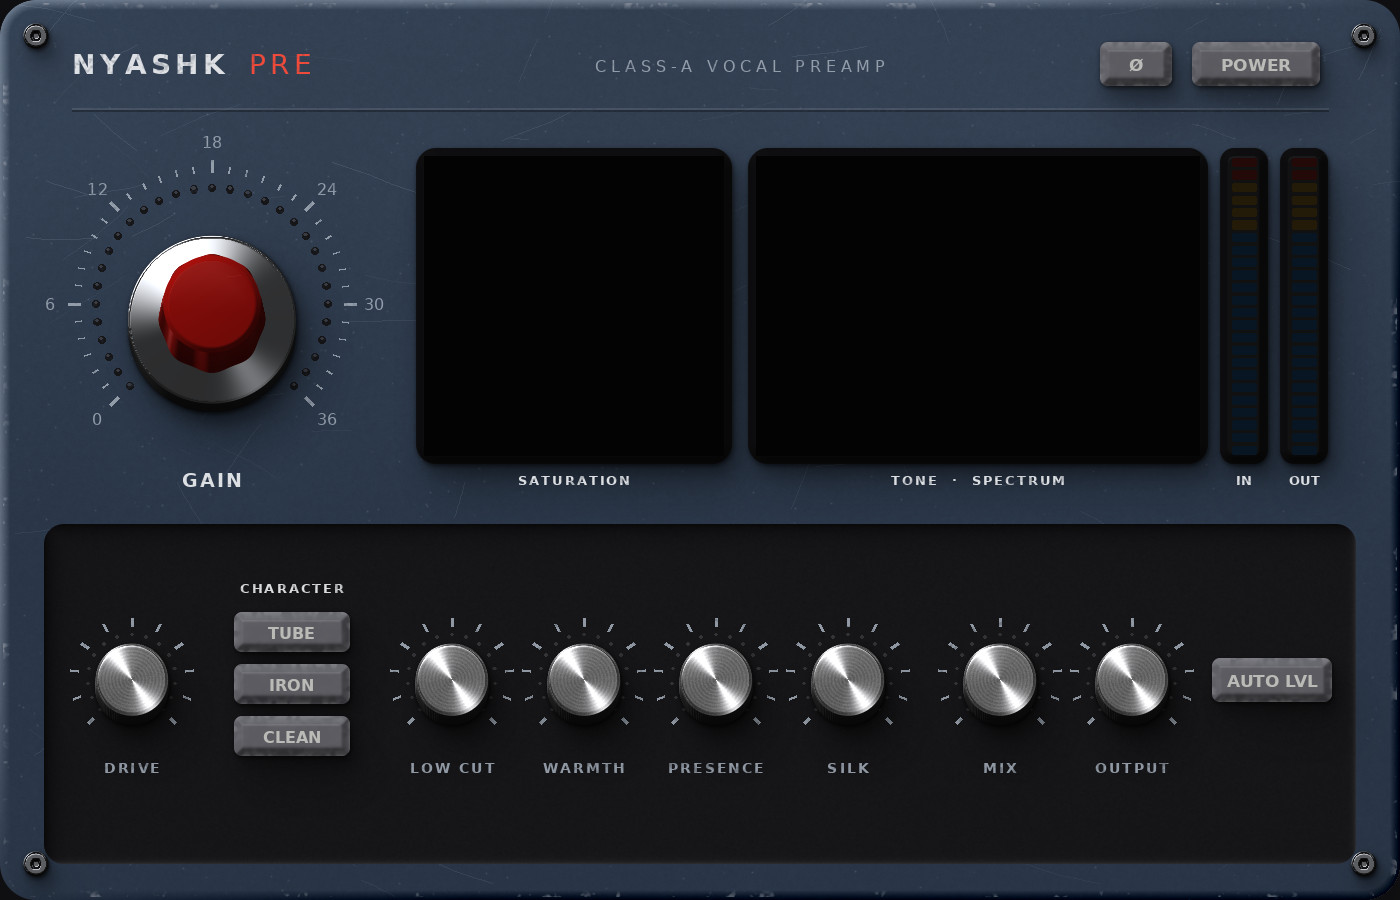
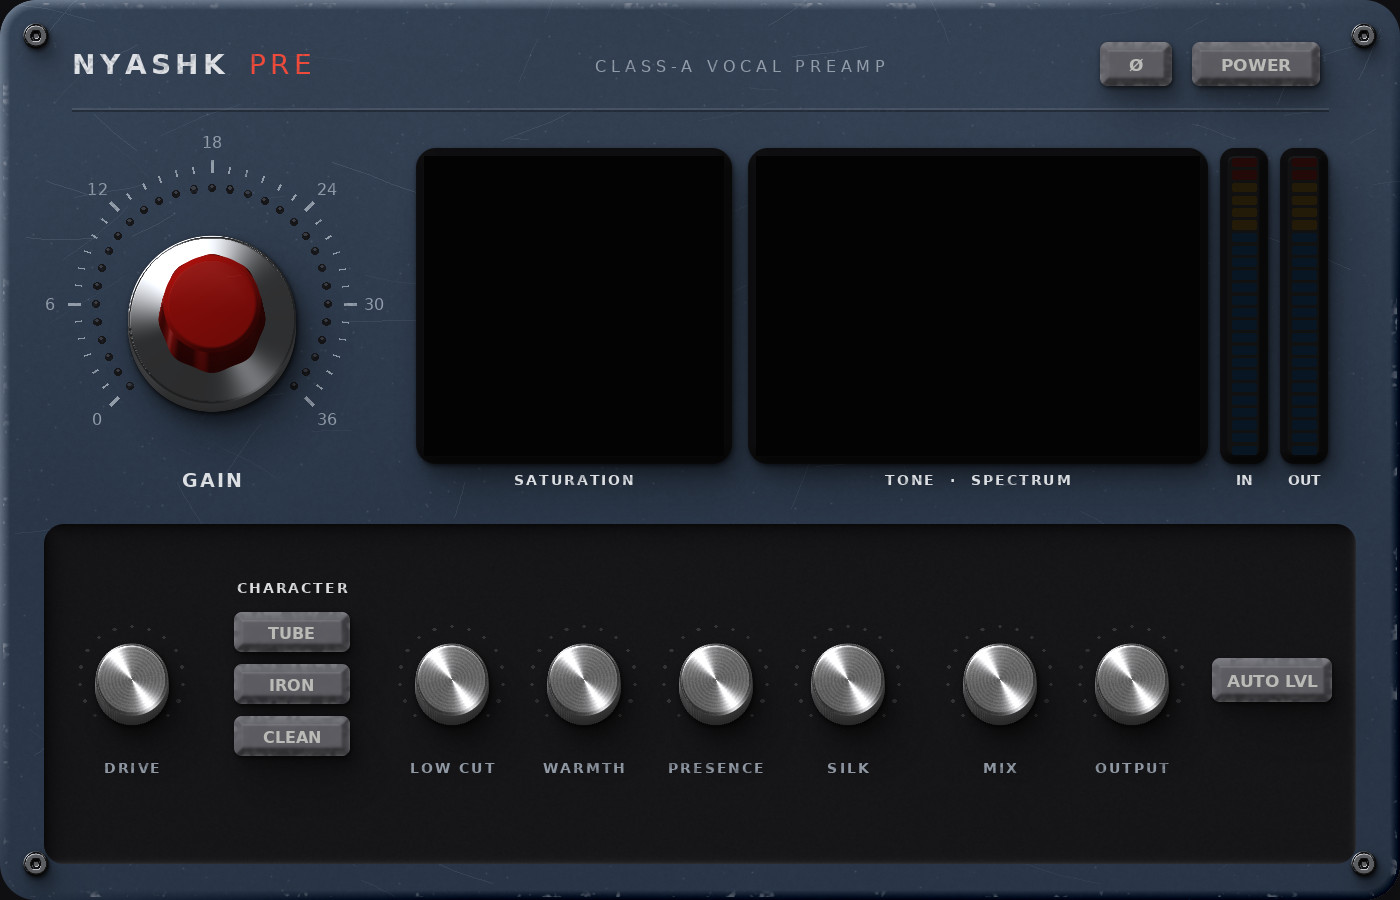
Faceplate details: pointers, lit knurl, hover rim, peak hold
Claude-Session: https://claude.ai/code/session_013jKKu2jZ6gVHt6eEoTXE3F

diff --git a/plugins/nyashkpre/src/hw_layout.rs b/plugins/nyashkpre/src/hw_layout.rs
@@ -19,14 +19,14 @@ pub const ASSETS: &[(&str, &[u8])] = &[
 
 pub const ACCENT: [u8; 3] = [240,74,58];
 pub const KNOBS: &[KnobL] = &[
-    KnobL { id: "gain", c: (106.00, 152.00), r: 50.00, ptr0: 0.00, ptr1: 23.10, ptr_w: 3.00, ptr_col: [250,245,240,255], engraved: false, skirt: (30.24, 40.74), led_r: 58.00, led_n: 31, bip: false },
-    KnobL { id: "drive", c: (66.00, 340.00), r: 22.00, ptr0: 2.64, ptr1: 14.78, ptr_w: 1.54, ptr_col: [30,30,32,235], engraved: true, skirt: (0.00, 0.00), led_r: 22.00, led_n: 15, bip: false },
-    KnobL { id: "lowcut", c: (226.00, 340.00), r: 22.00, ptr0: 2.64, ptr1: 14.78, ptr_w: 1.54, ptr_col: [30,30,32,235], engraved: true, skirt: (0.00, 0.00), led_r: 22.00, led_n: 15, bip: false },
-    KnobL { id: "warmth", c: (292.00, 340.00), r: 22.00, ptr0: 2.64, ptr1: 14.78, ptr_w: 1.54, ptr_col: [30,30,32,235], engraved: true, skirt: (0.00, 0.00), led_r: 22.00, led_n: 15, bip: true },
-    KnobL { id: "presence", c: (358.00, 340.00), r: 22.00, ptr0: 2.64, ptr1: 14.78, ptr_w: 1.54, ptr_col: [30,30,32,235], engraved: true, skirt: (0.00, 0.00), led_r: 22.00, led_n: 15, bip: true },
-    KnobL { id: "silk", c: (424.00, 340.00), r: 22.00, ptr0: 2.64, ptr1: 14.78, ptr_w: 1.54, ptr_col: [30,30,32,235], engraved: true, skirt: (0.00, 0.00), led_r: 22.00, led_n: 15, bip: true },
-    KnobL { id: "mix", c: (500.00, 340.00), r: 22.00, ptr0: 2.64, ptr1: 14.78, ptr_w: 1.54, ptr_col: [30,30,32,235], engraved: true, skirt: (0.00, 0.00), led_r: 22.00, led_n: 15, bip: false },
-    KnobL { id: "out", c: (566.00, 340.00), r: 22.00, ptr0: 2.64, ptr1: 14.78, ptr_w: 1.54, ptr_col: [30,30,32,235], engraved: true, skirt: (0.00, 0.00), led_r: 22.00, led_n: 15, bip: true },
+    KnobL { id: "gain", c: (106.00, 152.00), r: 50.00, ptr0: 5.04, ptr1: 23.10, ptr_w: 3.00, ptr_col: [250,245,240,255], engraved: false, skirt: (30.24, 40.74), led_r: 58.00, led_n: 31, bip: false },
+    KnobL { id: "drive", c: (66.00, 340.00), r: 22.00, ptr0: 5.54, ptr1: 15.15, ptr_w: 1.60, ptr_col: [30,30,32,235], engraved: true, skirt: (0.00, 0.00), led_r: 26.00, led_n: 15, bip: false },
+    KnobL { id: "lowcut", c: (226.00, 340.00), r: 22.00, ptr0: 5.54, ptr1: 15.15, ptr_w: 1.60, ptr_col: [30,30,32,235], engraved: true, skirt: (0.00, 0.00), led_r: 26.00, led_n: 15, bip: false },
+    KnobL { id: "warmth", c: (292.00, 340.00), r: 22.00, ptr0: 5.54, ptr1: 15.15, ptr_w: 1.60, ptr_col: [30,30,32,235], engraved: true, skirt: (0.00, 0.00), led_r: 26.00, led_n: 15, bip: true },
+    KnobL { id: "presence", c: (358.00, 340.00), r: 22.00, ptr0: 5.54, ptr1: 15.15, ptr_w: 1.60, ptr_col: [30,30,32,235], engraved: true, skirt: (0.00, 0.00), led_r: 26.00, led_n: 15, bip: true },
+    KnobL { id: "silk", c: (424.00, 340.00), r: 22.00, ptr0: 5.54, ptr1: 15.15, ptr_w: 1.60, ptr_col: [30,30,32,235], engraved: true, skirt: (0.00, 0.00), led_r: 26.00, led_n: 15, bip: true },
+    KnobL { id: "mix", c: (500.00, 340.00), r: 22.00, ptr0: 5.54, ptr1: 15.15, ptr_w: 1.60, ptr_col: [30,30,32,235], engraved: true, skirt: (0.00, 0.00), led_r: 26.00, led_n: 15, bip: false },
+    KnobL { id: "out", c: (566.00, 340.00), r: 22.00, ptr0: 5.54, ptr1: 15.15, ptr_w: 1.60, ptr_col: [30,30,32,235], engraved: true, skirt: (0.00, 0.00), led_r: 26.00, led_n: 15, bip: true },
 ];
 pub const BUTTONS: &[BtnL] = &[
     BtnL { id: "power", rect: (596.00, 21.00, 64.00, 22.00), tex: "btn_power", tex_size: (88.00, 46.00) },

diff --git a/tools/hwrender.py b/tools/hwrender.py
@@ -88,7 +88,7 @@ def cyl_knob(N, R_bot, R_top, off, cap_fn, wall_base, wall_metal=False, wall_rou
         nphi = phi + (np.sin(phi * ribs_) * rib_depth * 0.6 if ribs_ else 0)
         n = np.dstack([np.cos(nphi) * 0.85, np.sin(nphi) * 0.55, np.full_like(phi, 0.35)])
         n /= np.linalg.norm(n, axis=2, keepdims=True)
-        c = shade(n, base, metal, rough) * (0.75 + 0.25 * t)
+        c = (shade(n, base, metal, rough) + (np.array(base) * 0.22 if metal else 0)) * (0.75 + 0.25 * t)
         col = col * (1 - m[..., None]) + c * m[..., None]; A = np.maximum(A, m)
     t0 = 0
     if skirt:
@@ -144,16 +144,16 @@ def knob_image(kind, D, cap=None):
     if kind == 'alu':
         N = int(D * 1.25); R = D * 0.42; off = D * 0.10
         col, A = cyl_knob(N, R, R * 0.98, off, cap_alu(), [0.75, 0.75, 0.77], True, 0.35, ribs=110, rib_depth=0.35)
-        ptr = dict(r0=0.06 * D, r1=R * 0.80, w=max(1.5, D * 0.035 / S), col=(30, 30, 32, 235), kind='engraved')
+        ptr = dict(r0=R * 0.30, r1=R * 0.82, w=max(1.6, D * 0.035 / S), col=(30, 30, 32, 235), kind='engraved')
     elif kind == 'cap':
         N = int(D * 1.3); R = D * 0.42; off = D * 0.13
         col, A = cyl_knob(N, R, R * 0.9, off, cap_inset(cap), [0.09, 0.095, 0.1], False, 0.3, ribs=28, rib_depth=0.6)
-        ptr = dict(r0=0.0, r1=R * 0.86, w=max(1.5, D * 0.04 / S), col=(250, 250, 248, 255), kind='paint')
+        ptr = dict(r0=R * 0.12, r1=R * 0.86, w=max(1.6, D * 0.04 / S), col=(250, 250, 248, 255), kind='paint')
     elif kind == 'red':
         N = int(D * 1.25); R = D * 0.42; off = D * 0.12
         col, A = cyl_knob(N, R * 0.62, R * 0.58, off, cap_plastic([0.62, 0.05, 0.035], 0.2), [0.5, 0.04, 0.03], False, 0.25, ribs=8, rib_depth=1.2,
                           skirt=(R, off * 0.35, [0.8, 0.81, 0.83], True))
-        ptr = dict(r0=0.0, r1=R * 0.55, w=max(1.5, D * 0.03 / S), col=(250, 245, 240, 255), kind='paint', skirt=(R * 0.72, R * 0.97))
+        ptr = dict(r0=R * 0.12, r1=R * 0.55, w=max(1.6, D * 0.03 / S), col=(250, 245, 240, 255), kind='paint', skirt=(R * 0.72, R * 0.97))
     return to_img(col, A), ptr
 
 # ------------------------------------------------------------------ buttons / screws / glass

diff --git a/plugins/nyashkpre/src/hw.rs b/plugins/nyashkpre/src/hw.rs
@@ -206,6 +206,11 @@ pub fn knob<P: Param>(ui: &mut Ui, hw: &Hw, setter: &ParamSetter, p: &P, k: &Kno
             hw.led(painter, pt, accent, 2.8, lvl);
         }
     }
+    // hover / grab: a faint rim of light around the knob
+    if resp.hovered() || resp.dragged() {
+        let al = if resp.dragged() { 70 } else { 40 };
+        painter.circle_stroke(c, k.r * 0.86, Stroke::new(1.2_f32, Color32::from_white_alpha(al)));
+    }
     // pointer
     let a = (-135.0 + 270.0 * norm).to_radians();
     let dir = Vec2::new(a.sin(), -a.cos());
@@ -301,6 +306,7 @@ pub fn needle(p: &Painter, hw: &Hw, v: &VuL, t: f32, col: Color32) {
     clip.line_segment([pv + dir * r0, pv + dir * r1], Stroke::new(1.6_f32, col));
     hw.image(p, v.glass, hw.rect(v.rect), Color32::WHITE);
 }
+
 /// VU deflection for a dB value on a classic VU scale (-20..+3 VU)
 pub fn vu_t(db: f32) -> f32 {
     let lo = 10f32.powf(-20.0 / 20.0);
@@ -325,6 +331,21 @@ pub fn ladder(p: &Painter, hw: &Hw, l: &LadderL, level: f32, down: bool) {
         hw.image(p, "glow", sr.expand(5.0), Color32::from_rgba_unmultiplied(col.r(), col.g(), col.b(), 70));
         p.rect_filled(sr, 1.0, col);
     }
+}
+
+/// Peak-hold segment on an LED bar (0..1).
+pub fn ladder_hold(p: &Painter, hw: &Hw, l: &LadderL, hold: f32) {
+    if hold <= 0.02 {
+        return;
+    }
+    let r = hw.rect(l.rect);
+    let seg = r.height() / l.n as f32;
+    let k = ((hold.clamp(0.0, 1.0) * l.n as f32).ceil() as u32).clamp(1, l.n) - 1;
+    let t = k as f32 / l.n as f32;
+    let col = l.colors.iter().rev().find(|(f, _)| t >= *f).map(|(_, c)| c32(*c)).unwrap_or(Color32::GREEN);
+    let y1 = r.bottom() - k as f32 * seg - 1.2;
+    let sr = Rect::from_min_max(Pos2::new(r.left() + 2.0, y1 - seg + 2.2), Pos2::new(r.right() - 2.0, y1));
+    p.rect_filled(sr, 1.0, col.gamma_multiply(0.8));
 }
 
 /// Glass over a screen (after drawing its content).

diff --git a/tools/render_ui.py b/tools/render_ui.py
@@ -12,16 +12,16 @@ p.button('phase', 568, 32, 36, 22, 'Ø')
 p.knob('gain', 106, 152, 100, 'red', label='GAIN', label_dy=88, lsz=9.5, lcol=p.ink,
        scale=dict(r=66, n=37, major=6, labels=['0', '6', '12', '18', '24', '30', '36'], lsz=8), led=dict(r=58, n=31))
 p.screen('sat', 212, 78, 150, 150)
-p.text('SATURATION', 287, 240, 6.5, None, True, sp=1)
+p.text('SATURATION', 287, 240, 7.2, None, True, sp=1)
 p.screen('tone', 378, 78, 222, 150)
-p.text('TONE  ·  SPECTRUM', 489, 240, 6.5, None, True, sp=1)
+p.text('TONE  ·  SPECTRUM', 489, 240, 7.2, None, True, sp=1)
 lad = [(0.0, (60, 160, 255)), (0.75, (255, 190, 50)), (0.9, (255, 70, 60))]
 p.ladder('in', 614, 78, 16, 150, 24, lad); p.ladder('out', 644, 78, 16, 150, 24, lad)
-p.text('IN', 622, 240, 6.5, None, True); p.text('OUT', 652, 240, 6.5, None, True)
+p.text('IN', 622, 240, 7.2, None, True); p.text('OUT', 652, 240, 7.2, None, True)
 p.inset(22, 262, 678, 432)
-kn = dict(scale=dict(r=27, n=11, tick=4), led=dict(r=22, n=15))
+kn = dict(led=dict(r=26, n=15))
 p.knob('drive', 66, 340, 44, 'alu', label='DRIVE', label_dy=44, **kn)
-p.text('CHARACTER', 146, 294, 6.5, None, True, sp=1)
+p.text('CHARACTER', 146, 294, 7.2, None, True, sp=1)
 for i, (id, t) in enumerate([('tube', 'TUBE'), ('iron', 'IRON'), ('clean', 'CLEAN')]):
     p.button(id, 146, 316 + i * 26, 58, 20, t)
 for i, (id, lbl, bip) in enumerate([('lowcut', 'LOW CUT', False), ('warmth', 'WARMTH', True), ('presence', 'PRESENCE', True), ('silk', 'SILK', True)]):

diff --git a/plugins/nyashkpre/src/editor.rs b/plugins/nyashkpre/src/editor.rs
@@ -155,6 +155,8 @@ pub fn create(params: Arc<PreParams>, meters: Arc<Meters>) -> Option<Box<dyn Edi
                 let lv = |d: f32| ((d + 48.0) / 48.0).clamp(0.0, 1.0);
                 hw::ladder(&painter, hwr, hw::find(lay::LADDERS, "in", |x| x.id), lv(st.in_pk), false);
                 hw::ladder(&painter, hwr, hw::find(lay::LADDERS, "out", |x| x.id), lv(st.out_pk), false);
+                hw::ladder_hold(&painter, hwr, hw::find(lay::LADDERS, "in", |x| x.id), lv(st.in_hold));
+                hw::ladder_hold(&painter, hwr, hw::find(lay::LADDERS, "out", |x| x.id), lv(st.out_hold));
 
                 // ---- controls
                 hw::knob(ui, hwr, setter, &p.gain, k("gain"), accent, "GAIN: input gain in dB. Pushes the signal into the saturation stage, like turning up a mic pre.");

diff --git a/RELEASE_NOTES.md b/RELEASE_NOTES.md
@@ -1,3 +1,7 @@
+## NyashkPre 1.0.9
+
+- Деталі дизайну: стрілка ручки починається від краю ковпачка (як справжня гравіровка), бокові стінки металевих ручок ловлять світло, навколо ручки, яку крутиш або на яку наводиш, світиться тонкий обідок, LED-кільця без зайвих рисок на маленьких ручках, мітки пікового рівня на LED-шкалах, більші підписи.
+
 ## NyashkPre 1.0.8
 
 - Новий дизайн: сучасне аналогове залізо. Корпус, ручки, кнопки й екрани відрендерені як справжні фізичні об'єкти: точені алюмінієві ручки з рифленою стінкою, тіні в три шари, анодований метал з подряпинами, пилом і потертими краями, кнопки з підсвіткою, LED-дуги навколо ручок, скло на екранах.
